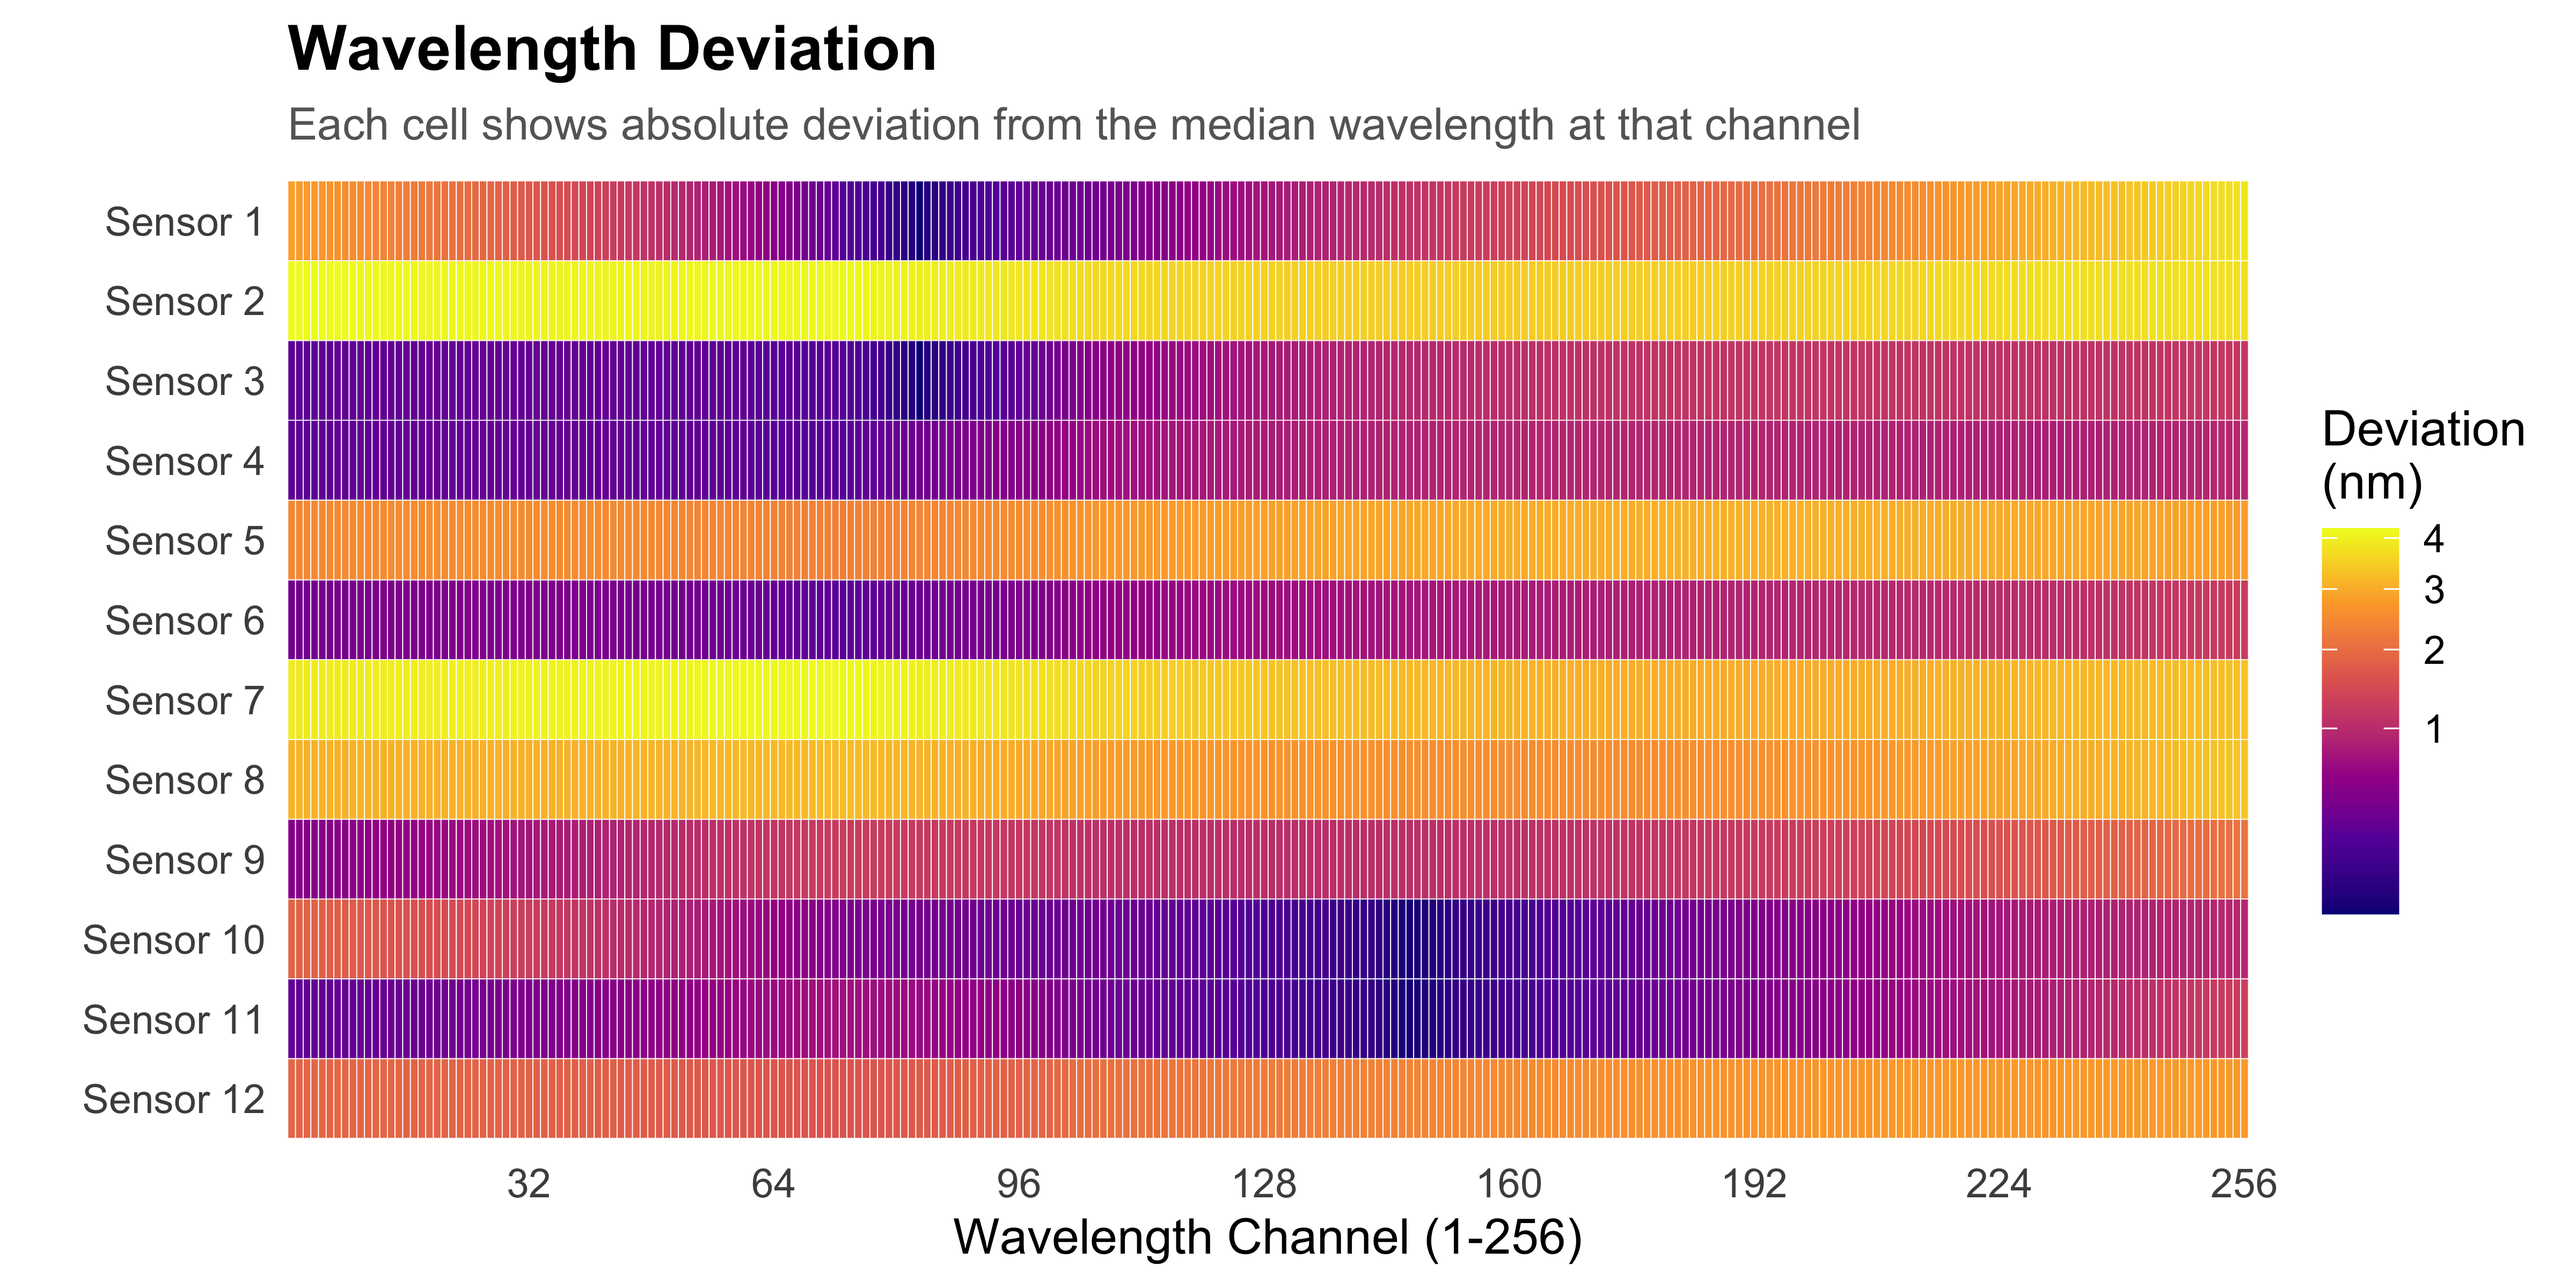
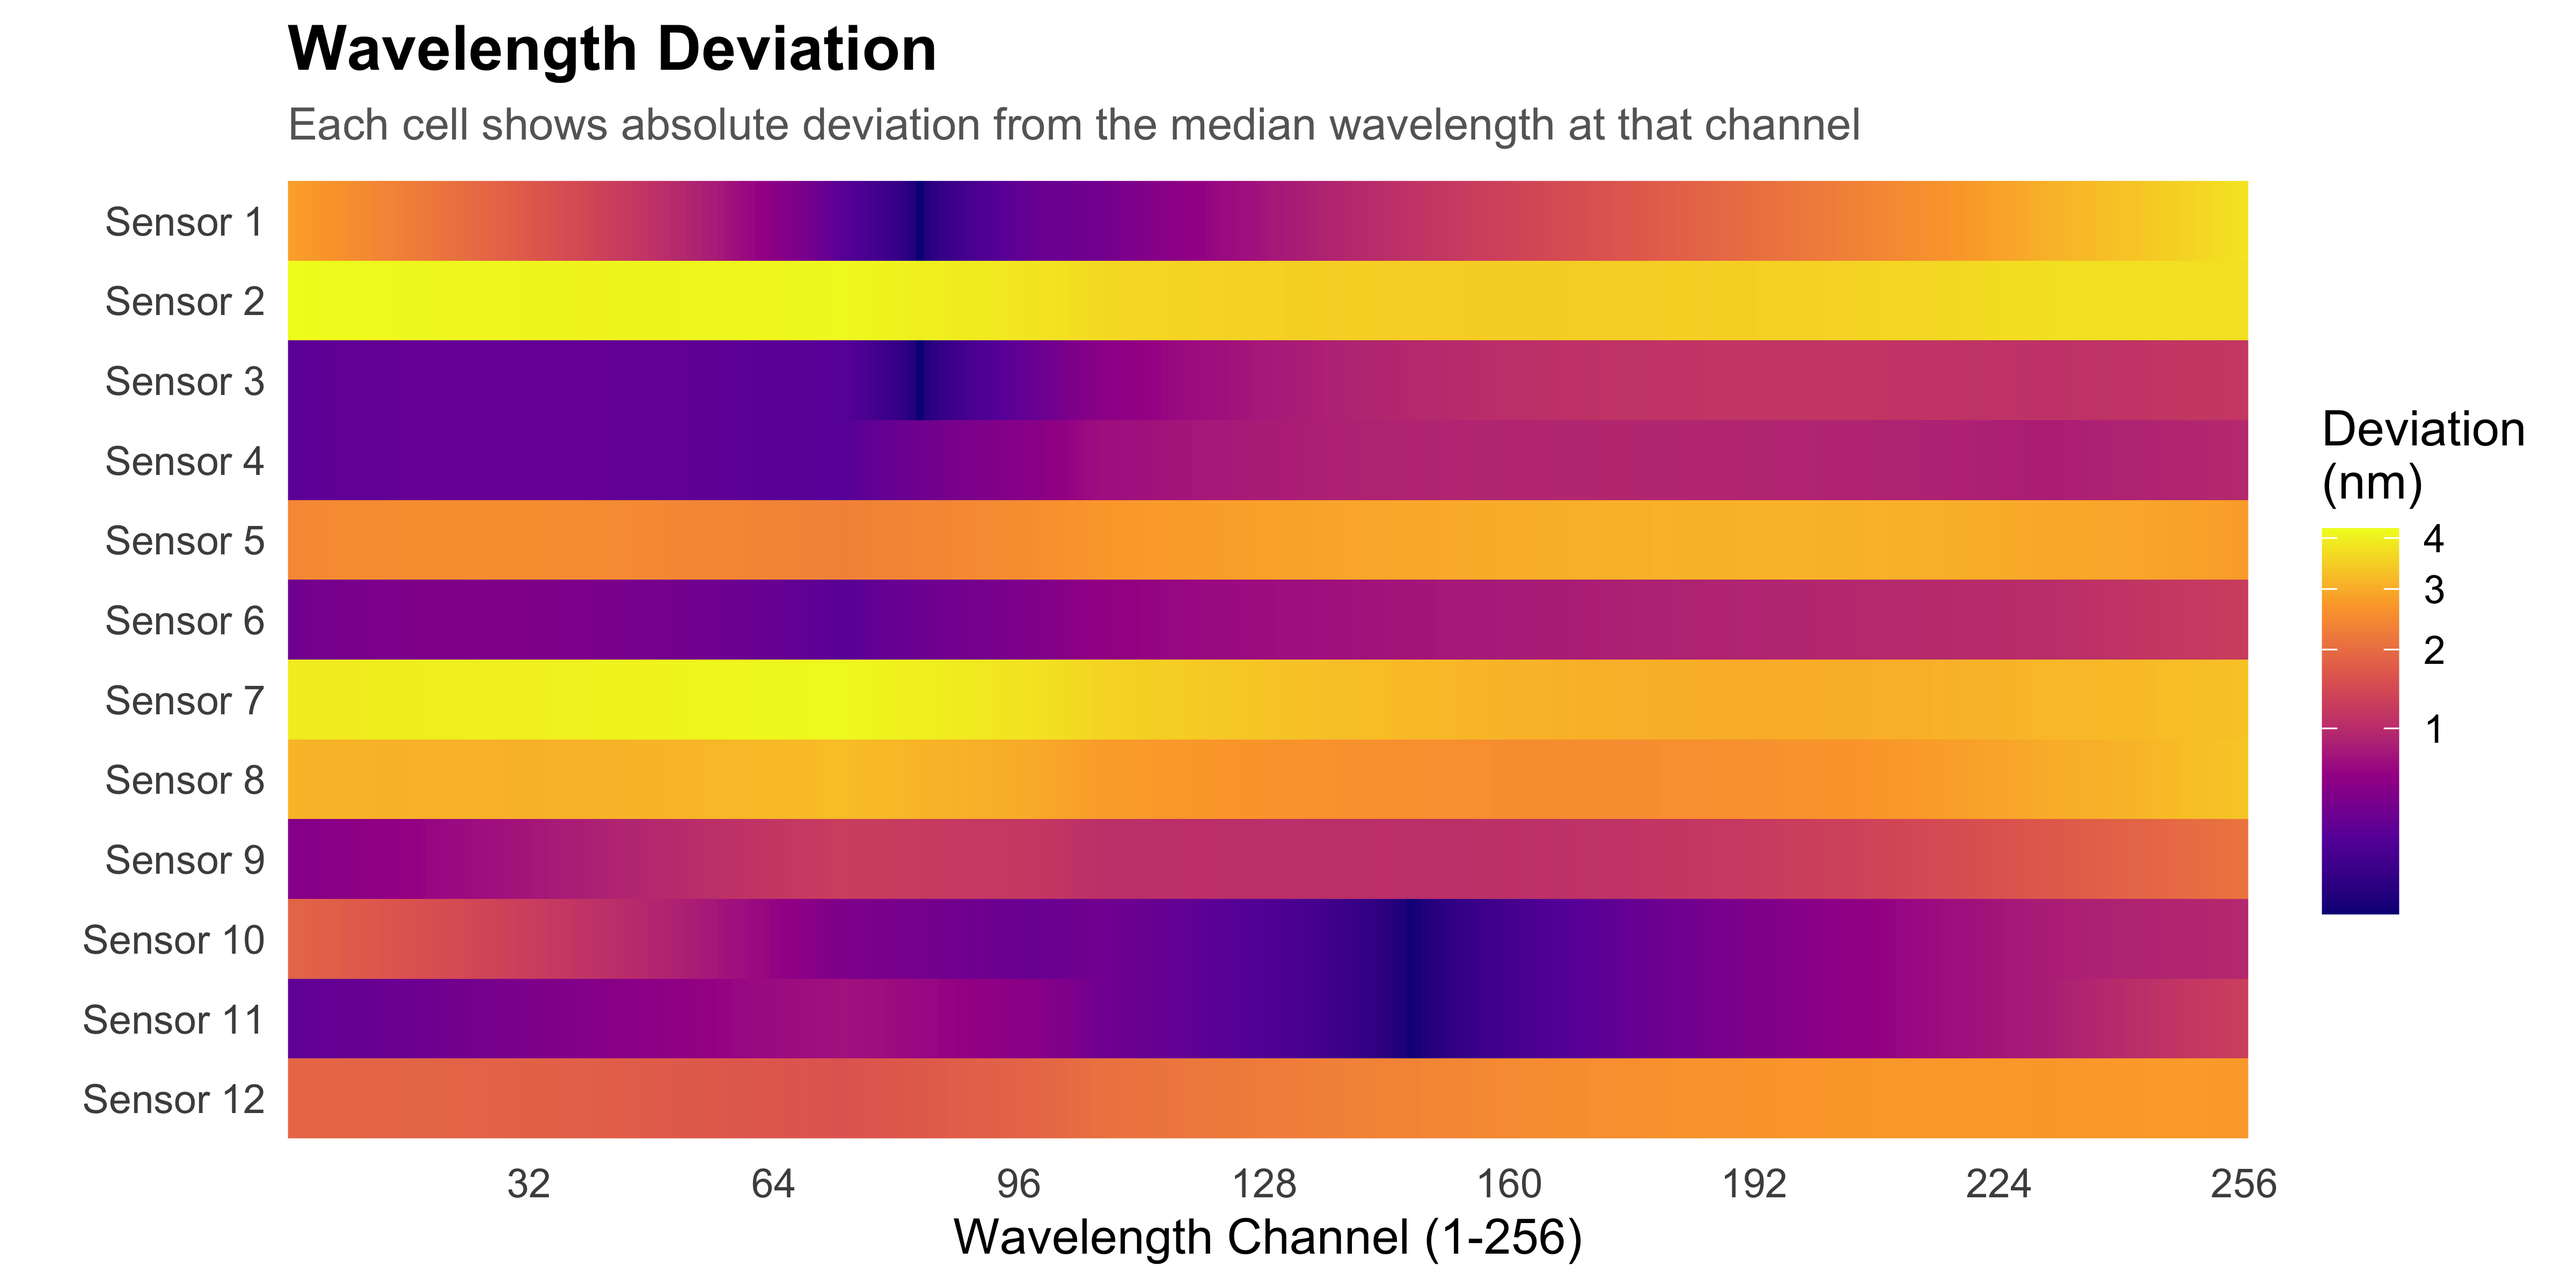
uses `geom_raster` instead of `geom_tile`

Changed region(s): [[0.125, 0.125, 0.875, 0.875]]

diff --git a/README.md b/README.md
@@ -214,7 +214,7 @@ wavelength_tbl %>%
     y = factor(sensor_num, levels = 1:12), 
     fill = deviation_from_median
     ) +
-  geom_tile(color = "white", linewidth = 0.1) +
+  geom_raster() +
   scale_fill_viridis_c(
     name = "Deviation\n(nm)",
     option = "plasma",
